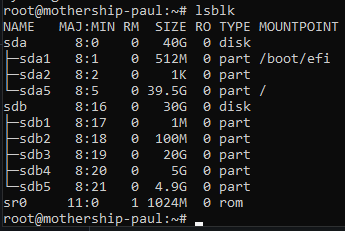
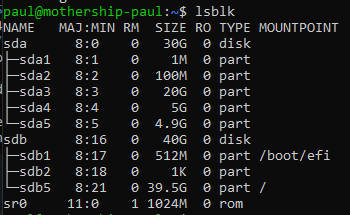
GitBook: [#14] No subject

diff --git a/milestones/milestone-1.md b/milestones/milestone-1.md
@@ -87,7 +87,7 @@ Output after installing all dependencies
 
 /dev/sdb needs to be partitioned
 
-<figure><img src="../.gitbook/assets/image.png" alt=""><figcaption><p>lsblk output</p></figcaption></figure>
+<figure><img src="../.gitbook/assets/image (3).png" alt=""><figcaption><p>lsblk output</p></figcaption></figure>
 
 #### Setup Partitions
 
@@ -102,7 +102,7 @@ Now select `Write` and type `yes`
 
 `lsblk` after cfdisk
 
-<figure><img src="../.gitbook/assets/image (2).png" alt=""><figcaption></figcaption></figure>
+<figure><img src="../.gitbook/assets/image (2) (2).png" alt=""><figcaption></figcaption></figure>
 
 ```
 mkfs.ext2 /dev/sdb2 -L LFSBOOT
@@ -141,14 +141,12 @@ echo $LFS
 
 ### Mounting LFS manually (2.7)
 
-```
-sudo -i
+<pre><code>sudo -i
 mkdir -pv $LFS
 mount -c -t ext4 /dev/sdb3 $LFS
 mkdir -v $LFS/home
 mount -c -t ext4 /dev/sdb4 $LFS/home
-swapon /dev/sdb5
-```
+<strong>swapon /dev/sdb5</strong></code></pre>
 
 <figure><img src="../.gitbook/assets/image (1).png" alt=""><figcaption></figcaption></figure>
 
@@ -158,9 +156,11 @@ swapon /dev/sdb5
 nano /etc/fstab
 ```
 
-<figure><img src="../.gitbook/assets/image (3).png" alt=""><figcaption></figcaption></figure>
+<figure><img src="../.gitbook/assets/image (3) (1).png" alt=""><figcaption></figcaption></figure>
 
 ```
 reboot
 lsblk
 ```
+
+<figure><img src="../.gitbook/assets/image.png" alt=""><figcaption></figcaption></figure>
